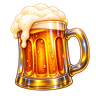
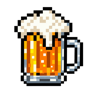
Replace badge artwork with pixel-art set

diff --git a/tests/engine.test.js b/tests/engine.test.js
@@ -23,7 +23,7 @@ function badges() {
 	return [
 		{ key: 'beer', threshold: 5, label: 'Beer badge', description: 'You earned the Beer badge for seeing 5 posts.', alt: 'Cute beer badge', url: 'https://example.com/badges/beer.png' },
 		{ key: 'vodka', threshold: 10, label: 'Vodka badge', description: 'You earned the Vodka badge for seeing 10 posts.', alt: 'Vodka bottle badge', url: 'https://example.com/badges/vodka.png' },
-		{ key: 'tracksuit', threshold: 20, label: 'Tracksuit badge', description: 'You earned the Tracksuit badge for seeing 20 posts.', alt: 'Black tracksuit badge', url: 'https://example.com/badges/adidas.png' },
+		{ key: 'barsetka', threshold: 20, label: 'Barsetka badge', description: 'You earned the Barsetka waist bag badge for seeing 20 posts.', alt: 'Black barsetka waist bag badge', url: 'https://example.com/badges/barsetka.png' },
 		{ key: 'gopnik', threshold: 50, label: 'Gopnik badge', description: 'You earned the Gopnik badge for seeing 50 posts.', alt: 'Gopnik character badge', url: 'https://example.com/badges/gopnik.png' },
 		{ key: 'bmw', threshold: 100, label: 'Black BMW badge', description: 'You earned the Black BMW badge for seeing 100 posts.', alt: 'Black BMW badge', url: 'https://example.com/badges/bmw.png' }
 	];
@@ -286,7 +286,7 @@ test('accumulates earned milestones and keeps Seen beside the highest badge on c
 	const history = Object.fromEntries(Array.from({ length: 100 }, (_, index) => [String(index + 1), now]));
 	const { window } = await boot(history);
 	const achievements = window.document.querySelector('.wp-seen-posts-achievements');
-	assert.deepEqual([...achievements.querySelectorAll('.wp-seen-posts-achievement')].map((item) => item.dataset.badgeKey), ['beer', 'vodka', 'tracksuit', 'gopnik', 'bmw']);
+	assert.deepEqual([...achievements.querySelectorAll('.wp-seen-posts-achievement')].map((item) => item.dataset.badgeKey), ['beer', 'vodka', 'barsetka', 'gopnik', 'bmw']);
 	assert.equal(achievements.querySelectorAll('img').length, 5);
 	window.document.querySelectorAll('.wp-seen-posts-badge').forEach((badge) => {
 		assert.equal(badge.querySelector('.wp-seen-posts-badge-text').textContent, 'Seen');
@@ -311,6 +311,21 @@ test('unlocks the 100-post Black BMW milestone with animation and toast', async 
 	assert.equal(bmw.querySelector('img').src, 'https://example.com/badges/bmw.png');
 	assert.equal(window.document.querySelector('.wp-seen-posts-unlock-toast').textContent.includes('Black BMW badge'), true);
 	assert.equal(hundredth.querySelector('.wp-seen-posts-badge img').src, 'https://example.com/badges/bmw.png');
+});
+
+test('unlocks the 20-post Barsetka milestone with animation and explanation', async () => {
+	const now = Math.floor(Date.now() / 1000);
+	const history = Object.fromEntries(Array.from({ length: 19 }, (_, index) => [String(index + 1), now]));
+	const { window, observer } = await boot(history, { postCount: 20 });
+	const twentieth = window.document.querySelector('#prologue-20');
+	observer.trigger(twentieth, 0.5);
+	await new Promise((resolve) => window.setTimeout(resolve, 10));
+	const barsetka = window.document.querySelector('.wp-seen-posts-achievement[data-badge-key="barsetka"]');
+	assert.equal(barsetka.classList.contains('wp-seen-posts-achievement-unlocked'), true);
+	assert.equal(barsetka.querySelector('img').src, 'https://example.com/badges/barsetka.png');
+	assert.equal(barsetka.querySelector('.wp-seen-posts-achievement-tooltip').textContent, 'You earned the Barsetka waist bag badge for seeing 20 posts.');
+	assert.equal(window.document.querySelector('.wp-seen-posts-unlock-toast').textContent.includes('Barsetka waist bag badge'), true);
+	assert.equal(twentieth.querySelector('.wp-seen-posts-badge img').src, 'https://example.com/badges/barsetka.png');
 });
 
 test('initializes only supplied infinite-scroll posts without advancing while visible content remains', async () => {

diff --git a/tests/single-post.test.js b/tests/single-post.test.js
@@ -40,7 +40,7 @@ async function bootSingle(history = {}, options = {}) {
 		badges: [
 			{ key: 'beer', threshold: 5, label: 'Beer badge', description: 'You earned the Beer badge for seeing 5 posts.', alt: 'Cute beer badge', url: 'https://example.com/beer.png' },
 			{ key: 'vodka', threshold: 10, label: 'Vodka badge', description: 'You earned the Vodka badge for seeing 10 posts.', alt: 'Vodka bottle badge', url: 'https://example.com/vodka.png' },
-			{ key: 'tracksuit', threshold: 20, label: 'Tracksuit badge', description: 'You earned the Tracksuit badge for seeing 20 posts.', alt: 'Black tracksuit badge', url: 'https://example.com/adidas.png' },
+			{ key: 'barsetka', threshold: 20, label: 'Barsetka badge', description: 'You earned the Barsetka waist bag badge for seeing 20 posts.', alt: 'Black barsetka waist bag badge', url: 'https://example.com/barsetka.png' },
 			{ key: 'gopnik', threshold: 50, label: 'Gopnik badge', description: 'You earned the Gopnik badge for seeing 50 posts.', alt: 'Gopnik character badge', url: 'https://example.com/gopnik.png' },
 			{ key: 'bmw', threshold: 100, label: 'Black BMW badge', description: 'You earned the Black BMW badge for seeing 100 posts.', alt: 'Black BMW badge', url: 'https://example.com/bmw.png' }
 		],
@@ -157,4 +157,17 @@ test('unlocks and animates the Black BMW badge on a 100th direct post', async ()
 	assert.equal(bmw.classList.contains('wp-seen-posts-achievement-unlocked'), true);
 	assert.equal(bmw.querySelector('img').src, 'https://example.com/bmw.png');
 	assert.equal(window.document.querySelector('.wp-seen-posts-unlock-toast').textContent.includes('Black BMW badge'), true);
+});
+
+test('unlocks and animates the Barsetka badge on a 20th direct post', async () => {
+	const now = Math.floor(Date.now() / 1000);
+	const history = Object.fromEntries(Array.from({ length: 19 }, (_, index) => [String(index + 100), now]));
+	const { window, recordedDetail } = await bootSingle(history);
+	await new Promise((resolve) => window.setTimeout(resolve, 12));
+	const barsetka = window.document.querySelector('.wp-seen-posts-achievement[data-badge-key="barsetka"]');
+	assert.equal(recordedDetail().unlocked, 'barsetka');
+	assert.equal(barsetka.classList.contains('wp-seen-posts-achievement-unlocked'), true);
+	assert.equal(barsetka.querySelector('img').src, 'https://example.com/barsetka.png');
+	assert.equal(barsetka.querySelector('.wp-seen-posts-achievement-tooltip').textContent, 'You earned the Barsetka waist bag badge for seeing 20 posts.');
+	assert.equal(window.document.querySelector('.wp-seen-posts-unlock-toast').textContent.includes('Barsetka waist bag badge'), true);
 });

diff --git a/wp-seen-posts.php b/wp-seen-posts.php
@@ -3,7 +3,7 @@
  * Plugin Name:       WP Seen Posts
  * Plugin URI:        https://github.com/ilyavish/wp-seen-posts
  * Description:       Tracks posts viewed in archive feeds, hides previously seen posts on later visits, and integrates with progressive infinite scrolling.
- * Version:           1.0.18
+ * Version:           1.0.19
  * Requires at least: 6.0
  * Requires PHP:      7.4
  * Author:            holdmyvodka.com
@@ -18,7 +18,7 @@ if ( ! defined( 'ABSPATH' ) ) {
 	exit;
 }
 
-const VERSION = '1.0.18';
+const VERSION = '1.0.19';
 const OPTION  = 'wp_seen_posts_selectors';
 
 require_once __DIR__ . '/includes/class-settings.php';
@@ -100,12 +100,12 @@ function achievement_badges(): array {
 			'url'         => badge_asset_url( 'vodka.png' ),
 		),
 		array(
-			'key'         => 'tracksuit',
+			'key'         => 'barsetka',
 			'threshold'   => 20,
-			'label'       => __( 'Tracksuit badge', 'wp-seen-posts' ),
-			'description' => __( 'You earned the Tracksuit badge for seeing 20 posts.', 'wp-seen-posts' ),
-			'alt'         => __( 'Black tracksuit badge earned after 20 Seen posts', 'wp-seen-posts' ),
-			'url'         => badge_asset_url( 'adidas.png' ),
+			'label'       => __( 'Barsetka badge', 'wp-seen-posts' ),
+			'description' => __( 'You earned the Barsetka waist bag badge for seeing 20 posts.', 'wp-seen-posts' ),
+			'alt'         => __( 'Black barsetka waist bag badge earned after 20 Seen posts', 'wp-seen-posts' ),
+			'url'         => badge_asset_url( 'barsetka.png' ),
 		),
 		array(
 			'key'         => 'gopnik',

diff --git a/README.md b/README.md
@@ -16,17 +16,17 @@ A lightweight WordPress plugin that gives archive feeds local Seen/Unseen state.
 - During an automatic advance with no preview available, a compact “Loading unseen posts…” status appears instead of an unexplained empty feed.
 - If a reload would otherwise contain no visible cards, two recent Seen cards remain as a stable preview while unseen pages load, avoiding both blank waits and live removal.
 - The small Seen badge is anchored to the bottom-right corner of its post card and keeps the Seen word visible beside the visitor's highest earned badge.
-- At 5, 10, 20, 50, and 100 unique Seen posts, visitors accumulate beer, vodka, tracksuit, gopnik, and Black BMW achievement icons in a light badge shelf aligned opposite the feed buttons.
+- At 5, 10, 20, 50, and 100 unique Seen posts, visitors accumulate beer, vodka, barsetka waist bag, gopnik, and Black BMW achievement icons in a light badge shelf aligned opposite the feed buttons.
 - Badge images have descriptive alternative text. Desktop hover/focus and mobile taps show a custom explanation below the badge so P2 and Safari cannot clip it above the feed.
 - A newly unlocked milestone gets one short badge-pop animation and a compact explanatory toast, with motion disabled when the visitor requests reduced motion.
-- Redesigned badge artwork is bundled locally at a maximum 96 px, loaded only when earned, and uses versioned URLs so browsers cache it while plugin upgrades reliably refresh it.
+- Pixel-art badge artwork is bundled locally at a maximum 96 px, loaded only when earned, and uses versioned URLs so browsers cache it while plugin upgrades reliably refresh it.
 - On the next page load, previously Seen cards start hidden and can be revealed; the two-card preview is used only when hiding everything would leave the feed empty.
 - Individual blog posts opened directly are recorded after one visible second and visibly show Seen plus earned badges inside the detected views row, right-aligned across from the view count and before newsletters or comments; WordPress pages are never tracked by default.
 - Anonymous state is stored as `{ postId: unixTimestamp }` in `wp_seen_posts_v1`.
 - History defaults to 365 days and 3,000 IDs. Use `WP_SEEN_POSTS_RETENTION_DAYS`, `WP_SEEN_POSTS_MAX_ENTRIES`, or their matching filters to change the limits.
 - The server archive query remains untouched and cacheable.
 - Full post markup remains server-rendered; hiding is a visitor-side interaction and does not remove content from the HTML response used by search engines.
-- Achievement artwork is bundled as four optimized 96×96 transparent PNGs and only earned images are loaded.
+- Achievement artwork is bundled as five optimized 96×96 transparent PNGs and only earned images are loaded.
 
 ## Supported markup
 
